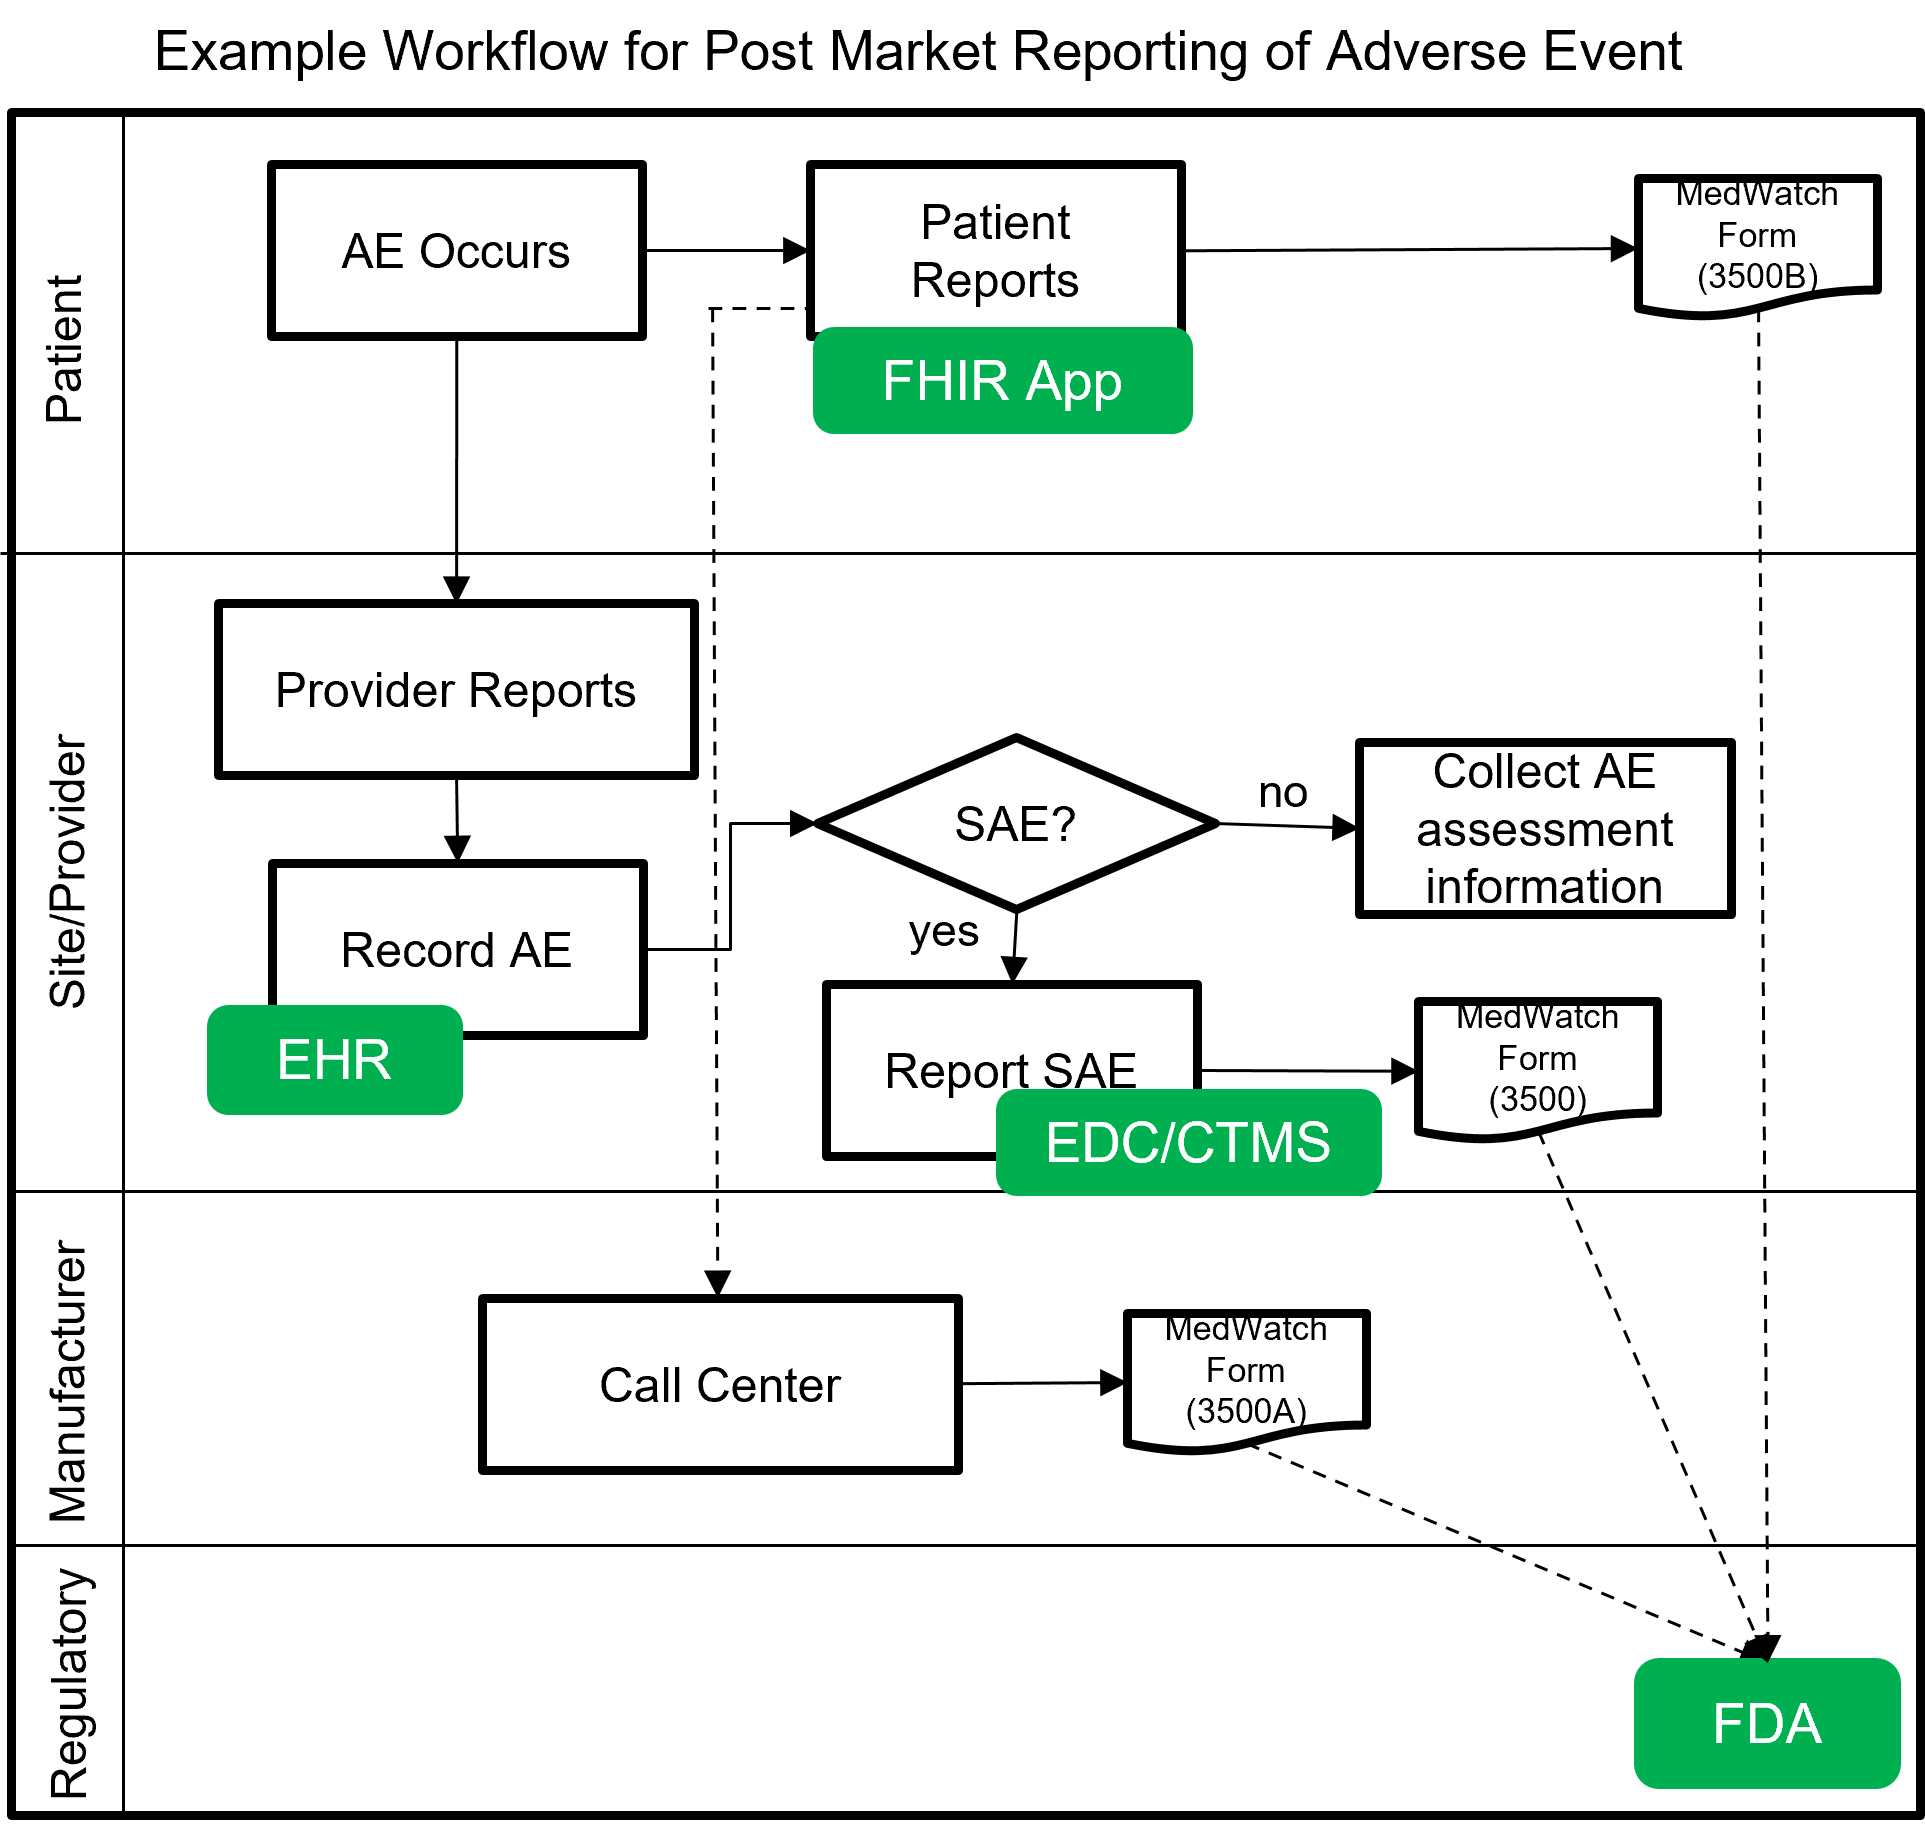
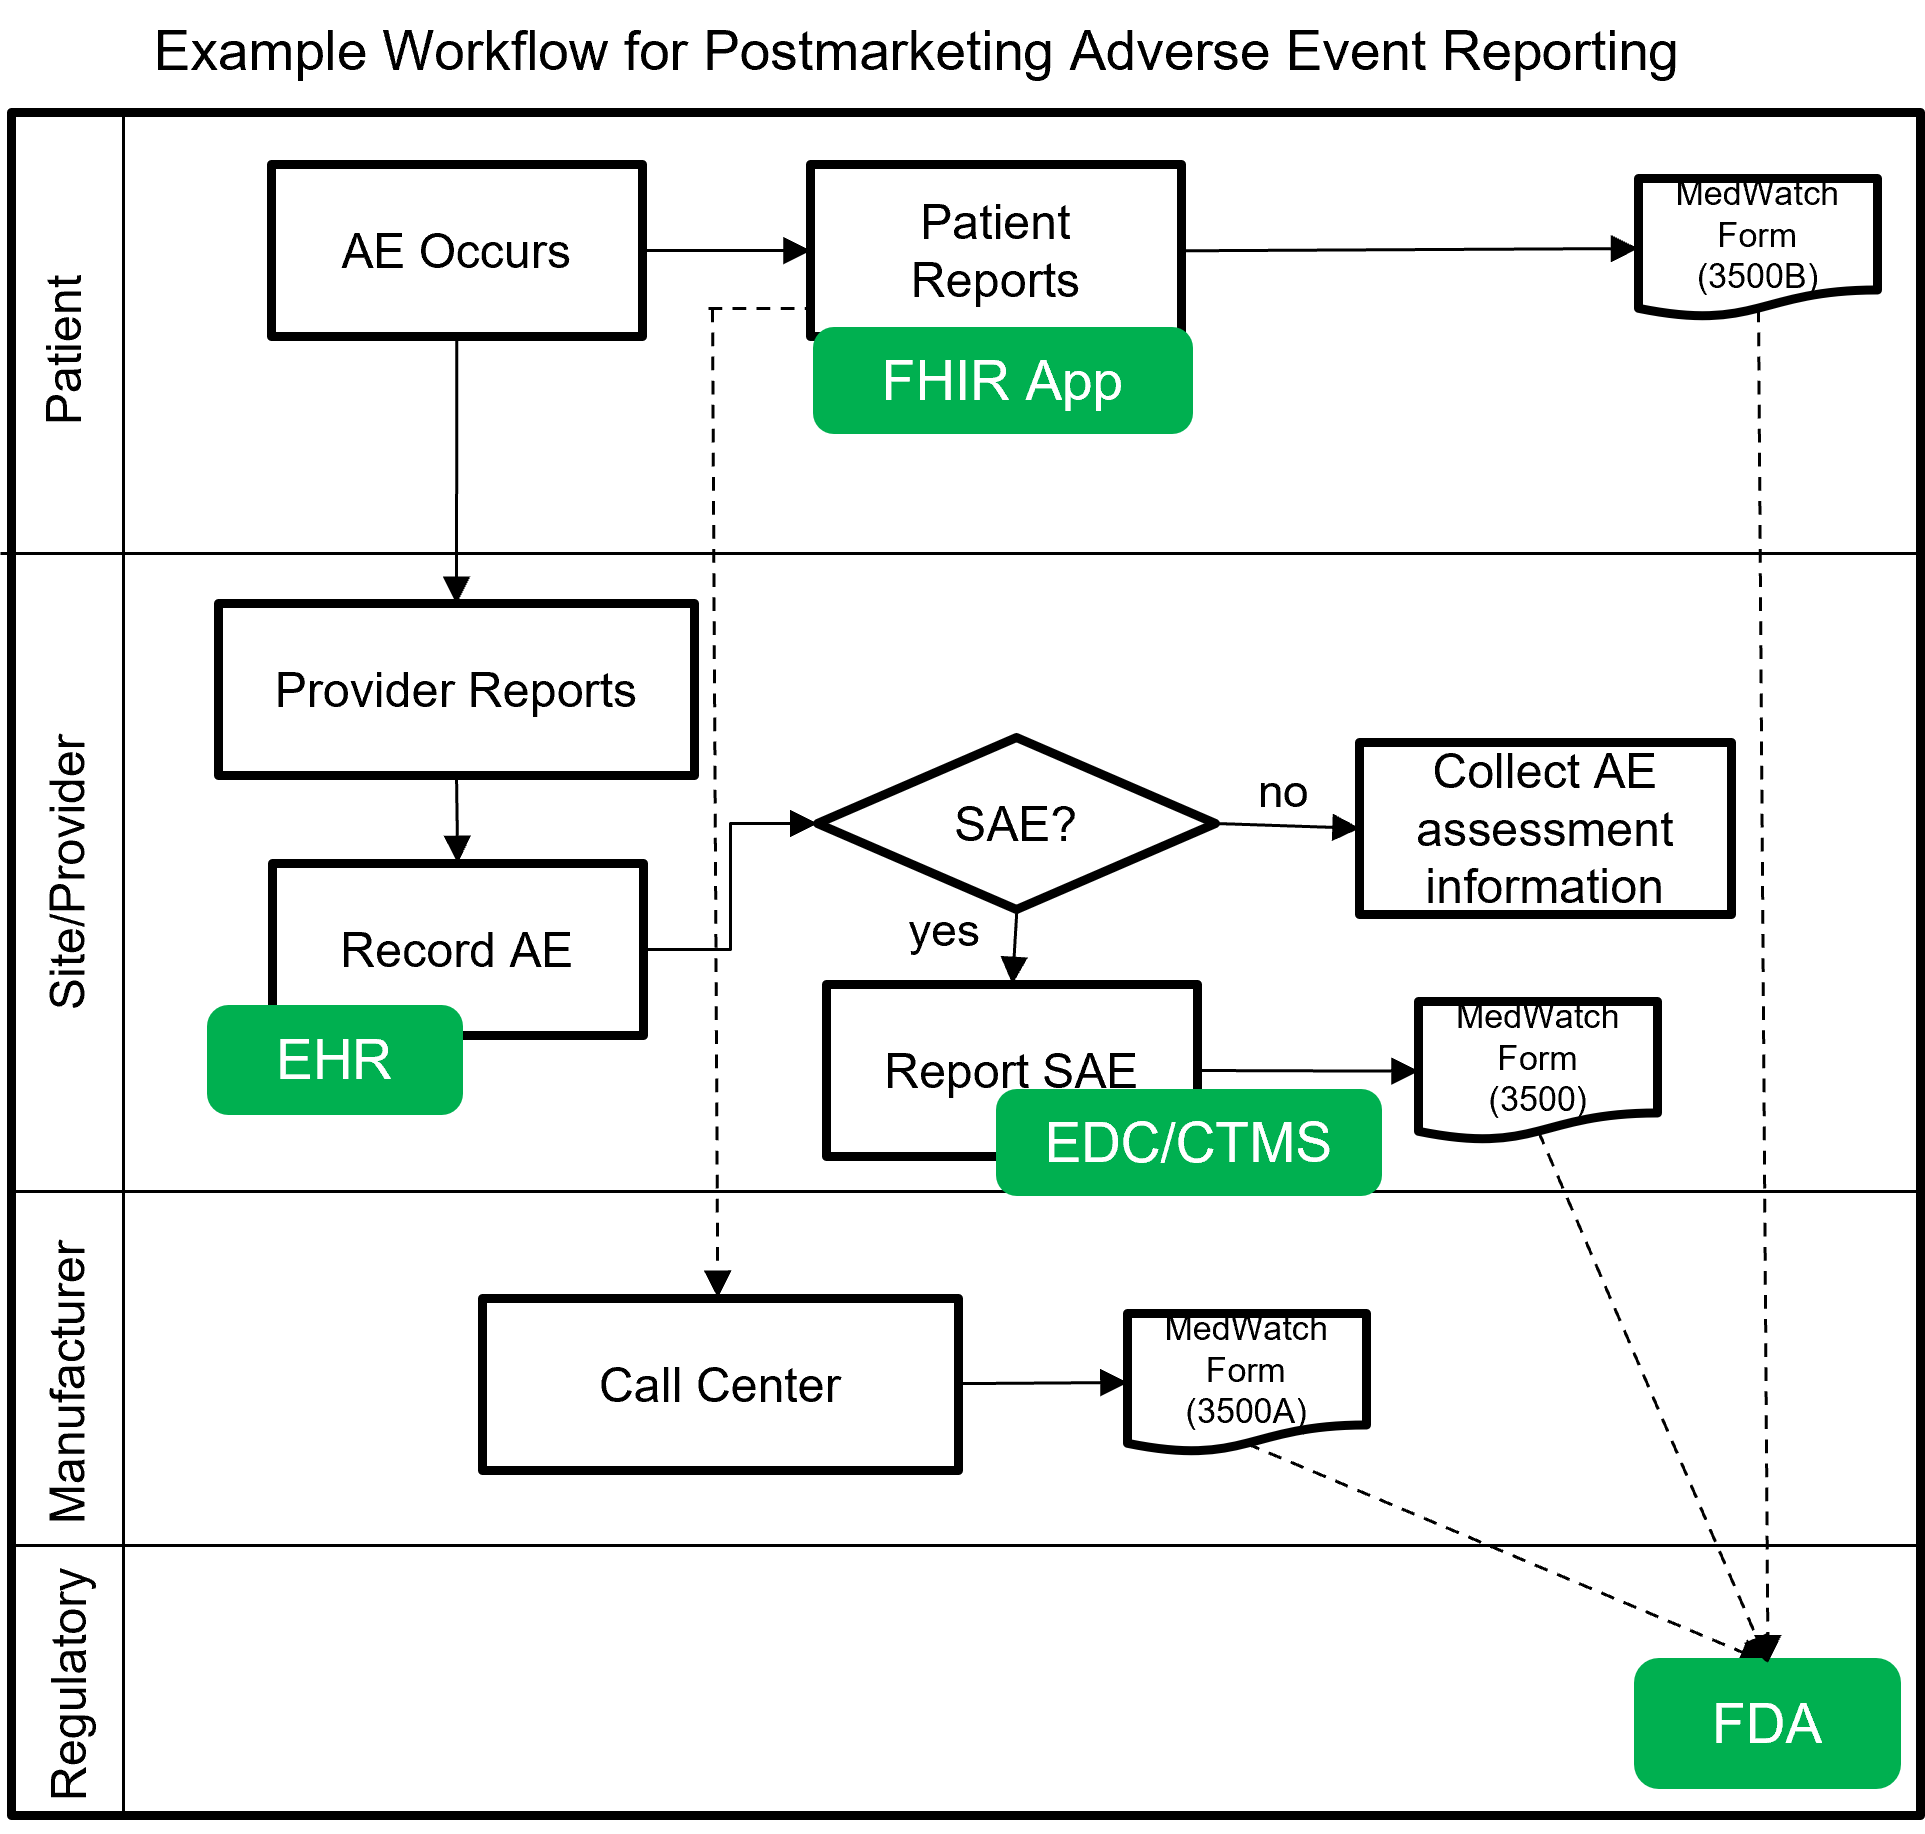
typo corrections
typo corrections

Changed region(s): [[0.4364, 0.0, 0.8727, 0.0622]]

diff --git a/input/pagecontent/examples.md b/input/pagecontent/examples.md
@@ -1,6 +1,6 @@
 ### Introduction
 
-The following use cases are exemplified with FHIR instances in this guide. Every effort has been made to be accurate, especially with regards to the AdverseEvent Clinical Research Profile instances, but these are intended as examples and may not include referenced data such as an Encounter. They are from real world examples and show how the AdveseEvent Clinical Research Profile is intended to be generally used. Keep in mind that it is intended that the profile in this guide be derived from to produce use case specific guidance. The examples are demonstrative of using FHIR in adverse event reporting but not prescriptive. As the use of adverse event reporting with FHIR matures, the examples could become outdated.
+The following use cases are exemplified with FHIR instances in this guide. Every effort has been made to be accurate, especially with regards to the AdverseEvent Clinical Research Profile instances, but these are intended as examples and may not include referenced data such as an Encounter. They are from real world examples and show how the AdverseEvent Clinical Research Profile is intended to be generally used. Keep in mind that it is intended that the profile in this guide be derived from to produce use case specific guidance. The examples are demonstrative of using FHIR in adverse event reporting but not prescriptive. As the use of adverse event reporting with FHIR matures, the examples could become outdated.
 
 ### Clinical trial: significant adverse event
 

diff --git a/input/pagecontent/background.md b/input/pagecontent/background.md
@@ -32,7 +32,7 @@ The following image shows a notional workflow for collecting and reporting adver
 
 <img src="ClinicalResearchAEScope-PostMarket-v2.png" alt="Clinical Research AE Post-Market" width="50%" style="float:none; margin: 0px 0px 0px 0px;" />
 
-Example scenarios: Post-market reporting of adverse events using FHIR for longitudinal safety surveillance.
+Example scenarios: Postmarketing adverse event reporting using FHIR for safety surveillance.
 
 * Patient records adverse event that is sent to FDA
 * Provider records adverse event in EHR that is sent to FDA
